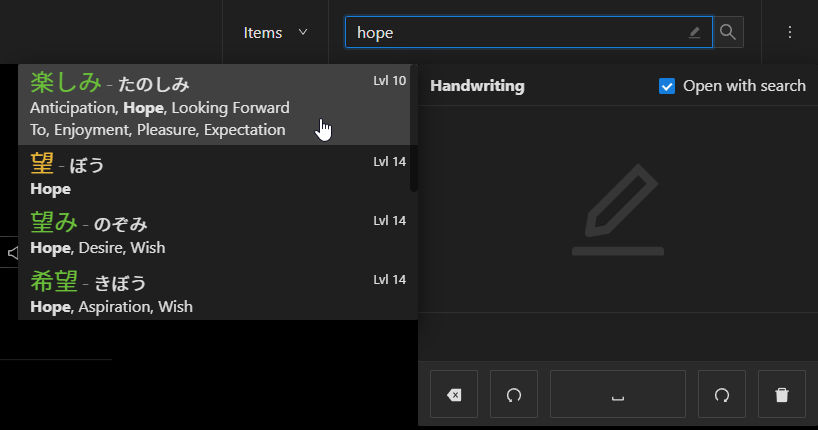
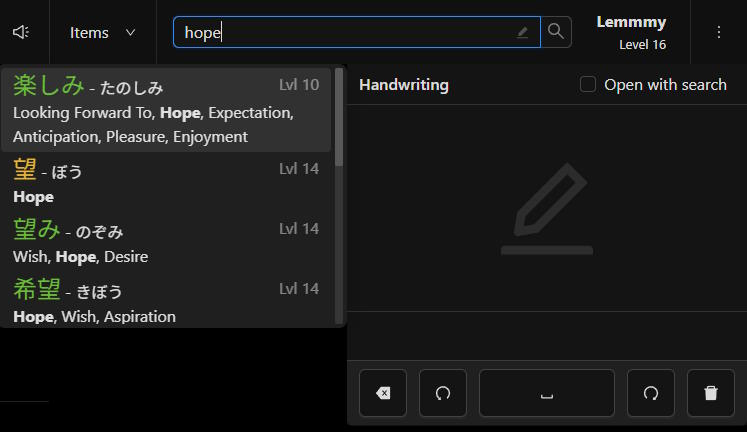
chore: update README screenshots

diff --git a/src/global/theme/wkTheme.ts b/src/global/theme/wkTheme.ts
@@ -20,6 +20,7 @@ const globalToken = getDesignToken();
 export interface WkTheme {
   antTheme: Partial<ThemeConfig>;
 
+  backgroundColor         : string;
   scrollbarThumbColor     : string;
   scrollbarThumbHoverColor: string;
   scrollbarTrackColor     : string;
@@ -65,6 +66,7 @@ const THEME_LIGHT: WkTheme = {
     }
   },
 
+  backgroundColor         : "#f5f5f5",
   scrollbarThumbColor     : "rgba(0, 0, 0, 0.13)",
   scrollbarThumbHoverColor: "rgba(0, 0, 0, 0.24)",
   scrollbarTrackColor     : "rgba(0, 0, 0, 0.1)",
@@ -76,9 +78,10 @@ const THEME_DARK: WkTheme = {
     algorithm: AntTheme.darkAlgorithm
   },
 
+  backgroundColor         : "#000000",
   scrollbarThumbColor     : "rgba(255, 255, 255, 0.17)",
   scrollbarThumbHoverColor: "rgba(255, 255, 255, 0.3)",
-  scrollbarTrackColor     : "rgba(255, 255, 255, 0.1)"
+  scrollbarTrackColor     : "rgba(255, 255, 255, 0.1)",
 };
 
 export const THEMES: Record<ThemeName, WkTheme> = {

diff --git a/src/index.css b/src/index.css
@@ -11,6 +11,10 @@ html {
   overflow-y: initial !important;
 }
 
+html, body {
+  background: var(--wk-background-color);
+}
+
 body {
   /* Prevent tooltips (e.g. in study queue modal) from pushing the page out */
   overflow-x: hidden;

diff --git a/index.html b/index.html
@@ -70,7 +70,7 @@
 
       /* Preloader light theme */
       html.light, html.light body {
-        background: #ffffff;
+        background: #f5f5f5;
       }
 
       html.light .wk-preloader {

diff --git a/README.md b/README.md
@@ -1,16 +1,18 @@
 # KanjiSchool
 
-Experimental web client for [WaniKani](https://www.wanikani.com), a Spaced Repetition System app to learn
-Japanese kanji by [Tofugu](https://www.tofugu.com/).
+Experimental web client for [WaniKani](https://www.wanikani.com), a Spaced Repetition System app to learn Japanese kanji 
+by [Tofugu](https://www.tofugu.com/).
 
 For more information, check out [WaniKani](https://www.wanikani.com) and their
 [knowledge base](https://knowledge.wanikani.com).
 
-![](https://i.imgur.com/BKLtQ1a.png)
+![](https://i.imgur.com/1nSwvjy.png)
 
 <sub>([more screenshots](#Screenshots))</sub>
 
 ## Features
+
+<sub>([what's new](https://github.com/Lemmmy/KanjiSchool/releases))</sub>
 
 * Full SRS with lessons and reviews
 * Custom self-study sessions
@@ -38,32 +40,33 @@ For more information, check out [WaniKani](https://www.wanikani.com) and their
 
 <center>
 
-| <img src="https://i.imgur.com/RUXjpFd.png" width="360"><br /><center>Summary</center> | <img src="https://i.imgur.com/si595BJ.png" width="360"><br /><center>Questions</center> |
-| :---: | :---: |
-| <img src="https://i.imgur.com/hFjEBrQ.png" width="360"><br /><center>Subject info</center> | <img src="https://i.imgur.com/NRjSRDb.png" width="360"><br /><center>Subject info</center> |
-| <img src="https://i.imgur.com/h7QwCv5.png" width="360"><br /><center>Dashboard statistics</center> | <img src="https://i.imgur.com/usDnUbs.png" width="360"><br /><center>Dashboard statistics</center> |
-| <img src="https://i.imgur.com/Q5Pnv7i.png" width="360"><br /><center>Quick search</center> | <img src="https://i.imgur.com/u0J5FeH.png" width="360"><br /><center>Keyboard shortcuts</center> |
-| <img src="https://i.imgur.com/dBPeI3U.png" width="360"><br /><center>Subject listing</center> | <img src="https://i.imgur.com/Mk1HY2s.png" width="240"><br /><center>Advanced search</center> |
+|       <img src="https://i.imgur.com/ztvRqHs.png" width="360"><br /><center>Summary</center>        |      <img src="https://i.imgur.com/UzgKpBe.png" width="360"><br /><center>Questions</center>       |
+|:--------------------------------------------------------------------------------------------------:|:--------------------------------------------------------------------------------------------------:|
+|     <img src="https://i.imgur.com/JQpNlRA.png" width="360"><br /><center>Subject info</center>     |     <img src="https://i.imgur.com/o4N25MK.png" width="360"><br /><center>Subject info</center>     |
+| <img src="https://i.imgur.com/tZ9HlLV.png" width="360"><br /><center>Dashboard statistics</center> | <img src="https://i.imgur.com/gyFAT7F.png" width="360"><br /><center>Dashboard statistics</center> |
+|     <img src="https://i.imgur.com/XJV0lDu.png" width="360"><br /><center>Quick search</center>     |  <img src="https://i.imgur.com/EjXTNTb.png" width="360"><br /><center>Keyboard shortcuts</center>  |
+|   <img src="https://i.imgur.com/7W6L0Ka.png" width="360"><br /><center>Subject listing</center>    |   <img src="https://i.imgur.com/eWjm7Hj.png" width="240"><br /><center>Advanced search</center>    |
+|     <img src="https://i.imgur.com/xP12Bsi.png" width="360"><br /><center>Light theme</center>      |     <img src="https://i.imgur.com/nFJJfqe.png" width="360"><br /><center>Light theme</center>      |
 
 </center>
 
 ## TODO
 
-* Better user onboarding
+* Better new user onboarding
 * Kanji stroke order diagrams
+* Phonetic/semantic composition for radicals and kanji
 * Better leech tracking
 * Level-up time chart, show estimated 'level-up in' and 'typical level-up' times
 
 ## Contributing
 
-This project uses 
-[Conventional Commits](https://www.conventionalcommits.org/en/v1.0.0/) as a
-standard for commit messages.
+This project uses [Conventional Commits](https://www.conventionalcommits.org/en/v1.0.0/) as a standard for commit 
+messages.
 
-## Disclaimer
+## Attribution
 
-This app has been independently developed, and is not supported by, affiliated
-with or endorsed by [Tofugu LLC](https://www.tofugu.com/).
+This app has been independently developed, and is not supported by, affiliated with or endorsed by 
+[Tofugu LLC](https://www.tofugu.com/).
 
 It was also heavily influenced by:
 * [WaniKani itself](https://www.wanikani.com)
@@ -72,8 +75,19 @@ It was also heavily influenced by:
 * [Many UserScripts from the WaniKani
   community](https://community.wanikani.com/c/wanikani/api-and-third-party-apps)
 
+Lesson content and audio clips are obtained from [WaniKani](https://www.wanikani.com/), copyright &copy; 
+[Tofugu LLC](https://www.tofugu.com/), made available by your WaniKani subscription. KanjiSchool is not affiliated
+Tofugu LLC.
+
+Kanji data including JLPT level, Jōyō grade, and newspaper frequency is collected from [Jisho](https://jisho.org/),
+which obtained most of its data from the [KANJIDIC](http://www.edrdg.org/wiki/index.php/KANJIDIC_Project) project,
+copyright &copy; the [EDRDG](https://www.edrdg.org/).
+
+Pitch accent data is obtained from the [Kanjium](https://github.com/mifunetoshiro/kanjium) project, licensed under the
+[CC BY-SA 4.0](https://creativecommons.org/licenses/by-sa/4.0/) license, provided by Uros O. through his free database.
+
 ## License
 
-**Copyright (c) 2021-2023 Drew Edwards**
+**Copyright &copy; 2021-2023 Drew Edwards**
 
-This project is licensed under the AGPL v3 license. See LICENSE for more.
+This project is licensed under the AGPL v3 license. See [LICENSE](/LICENSE) for more information.
